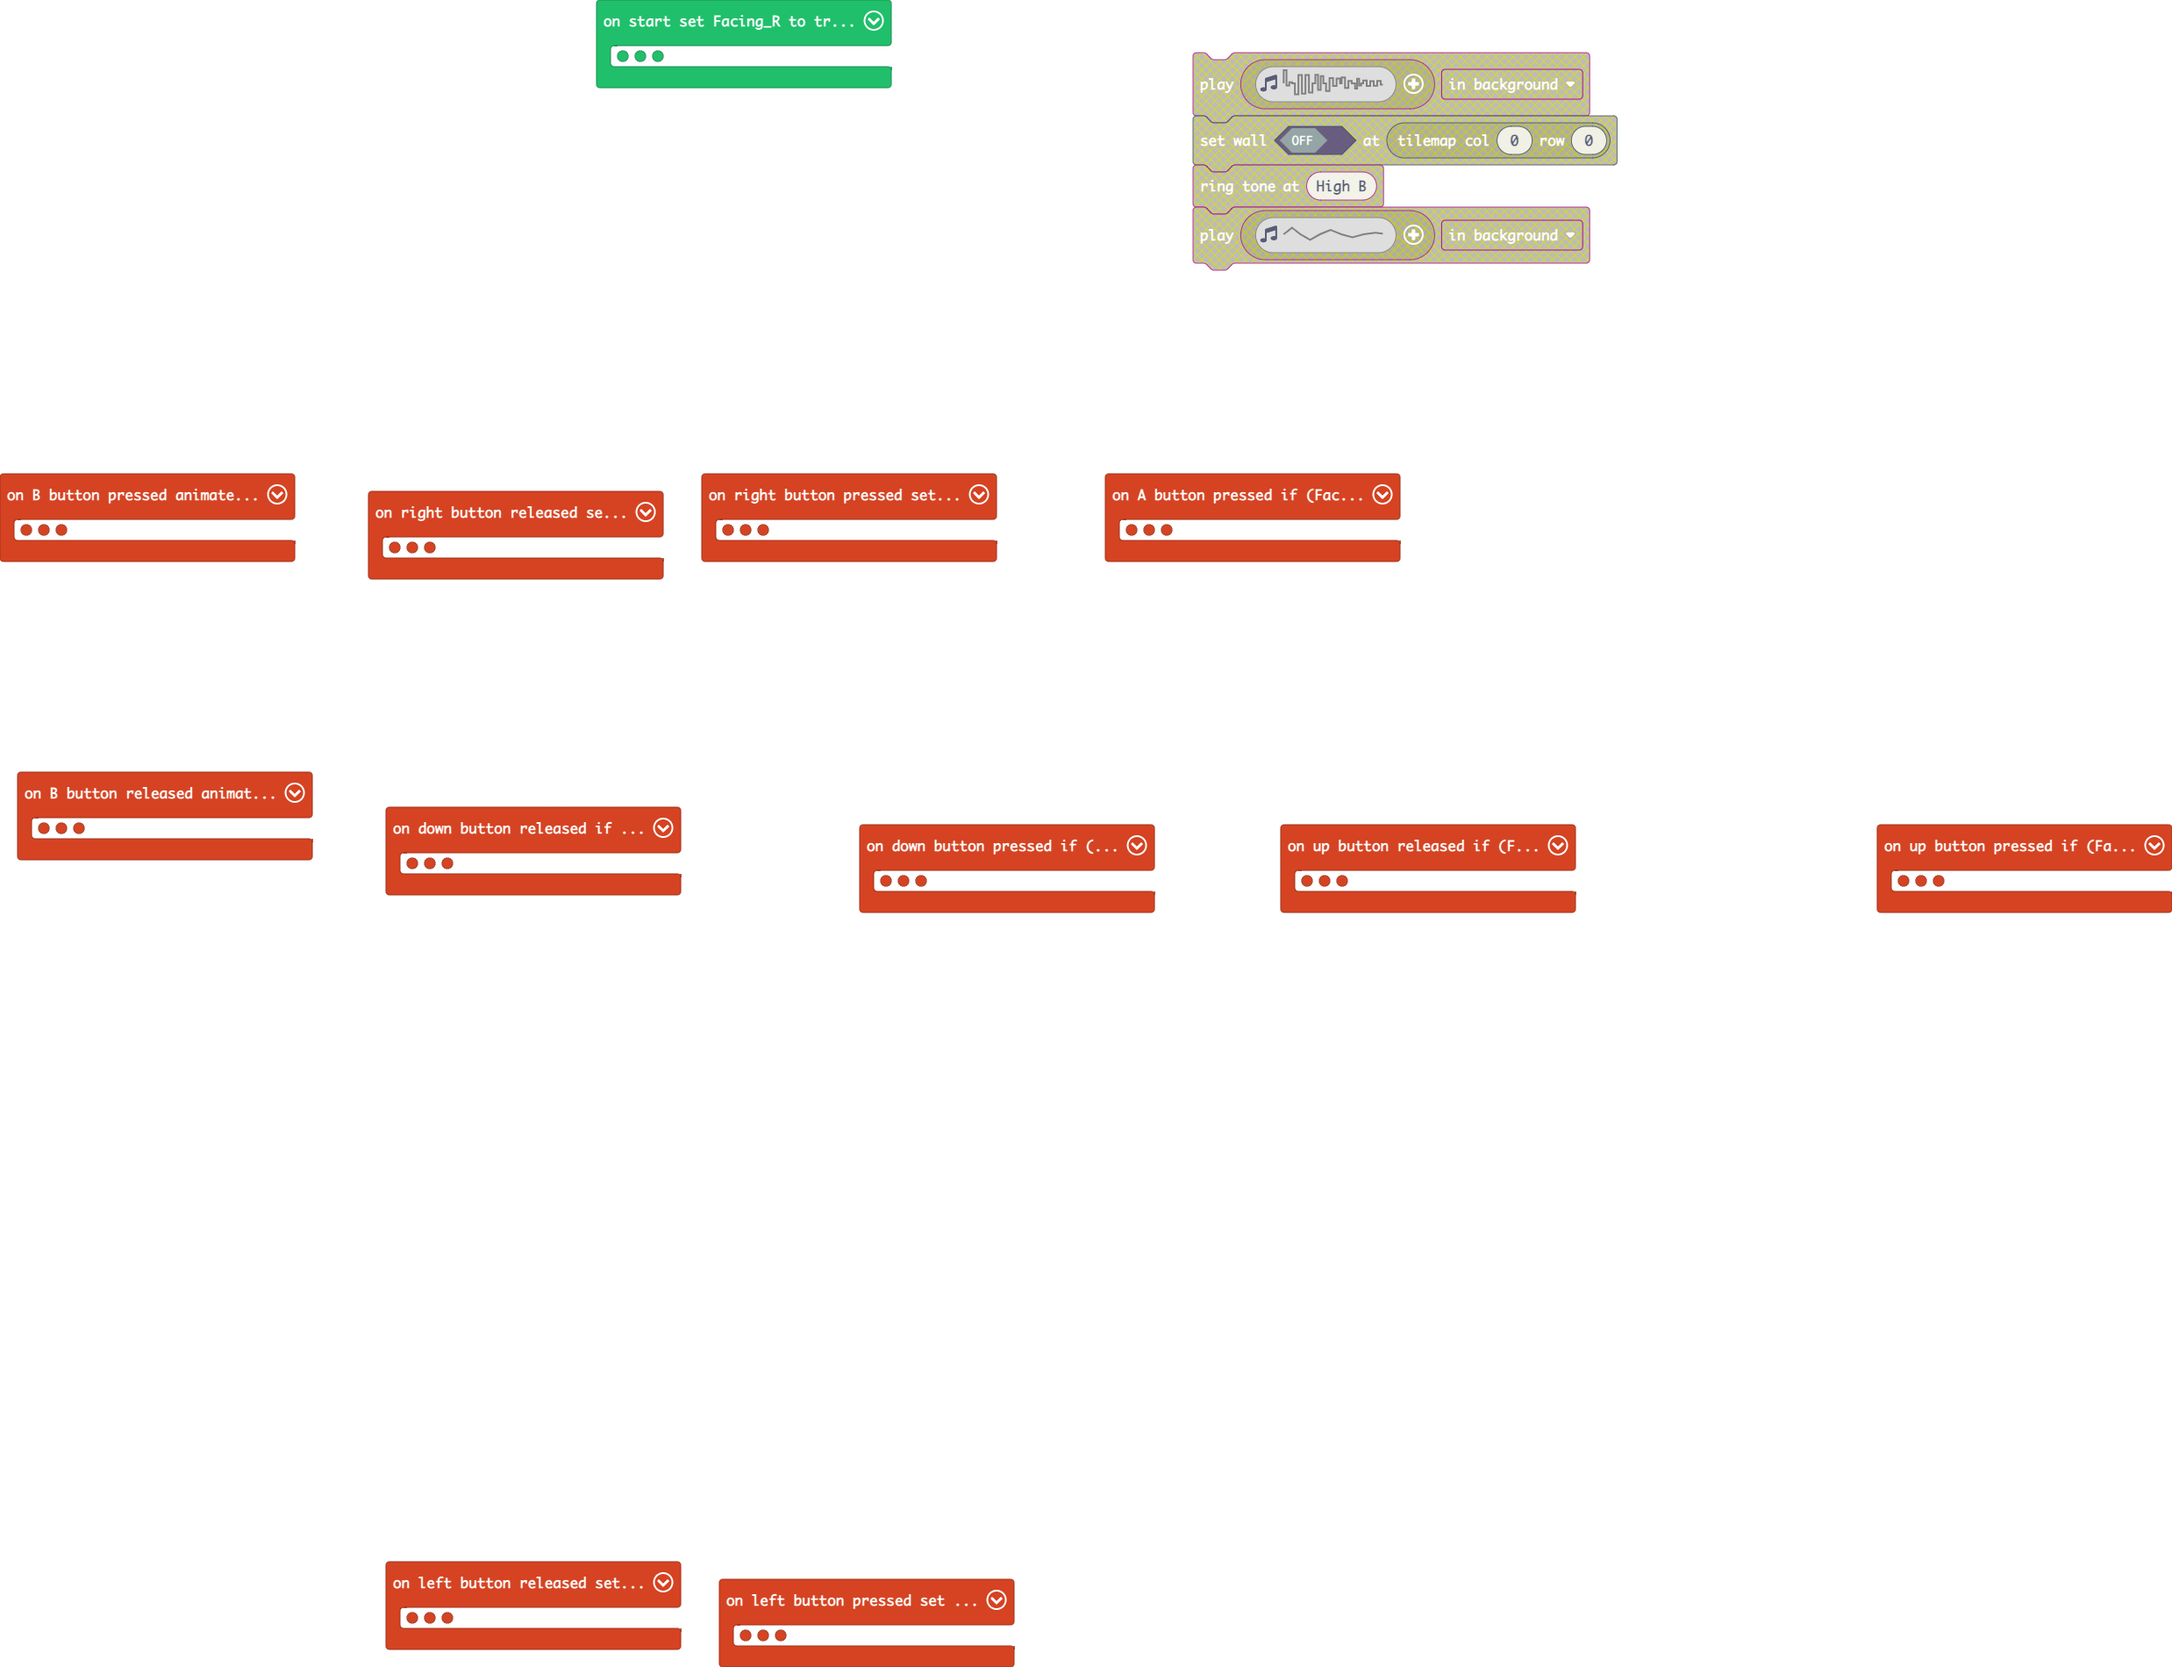
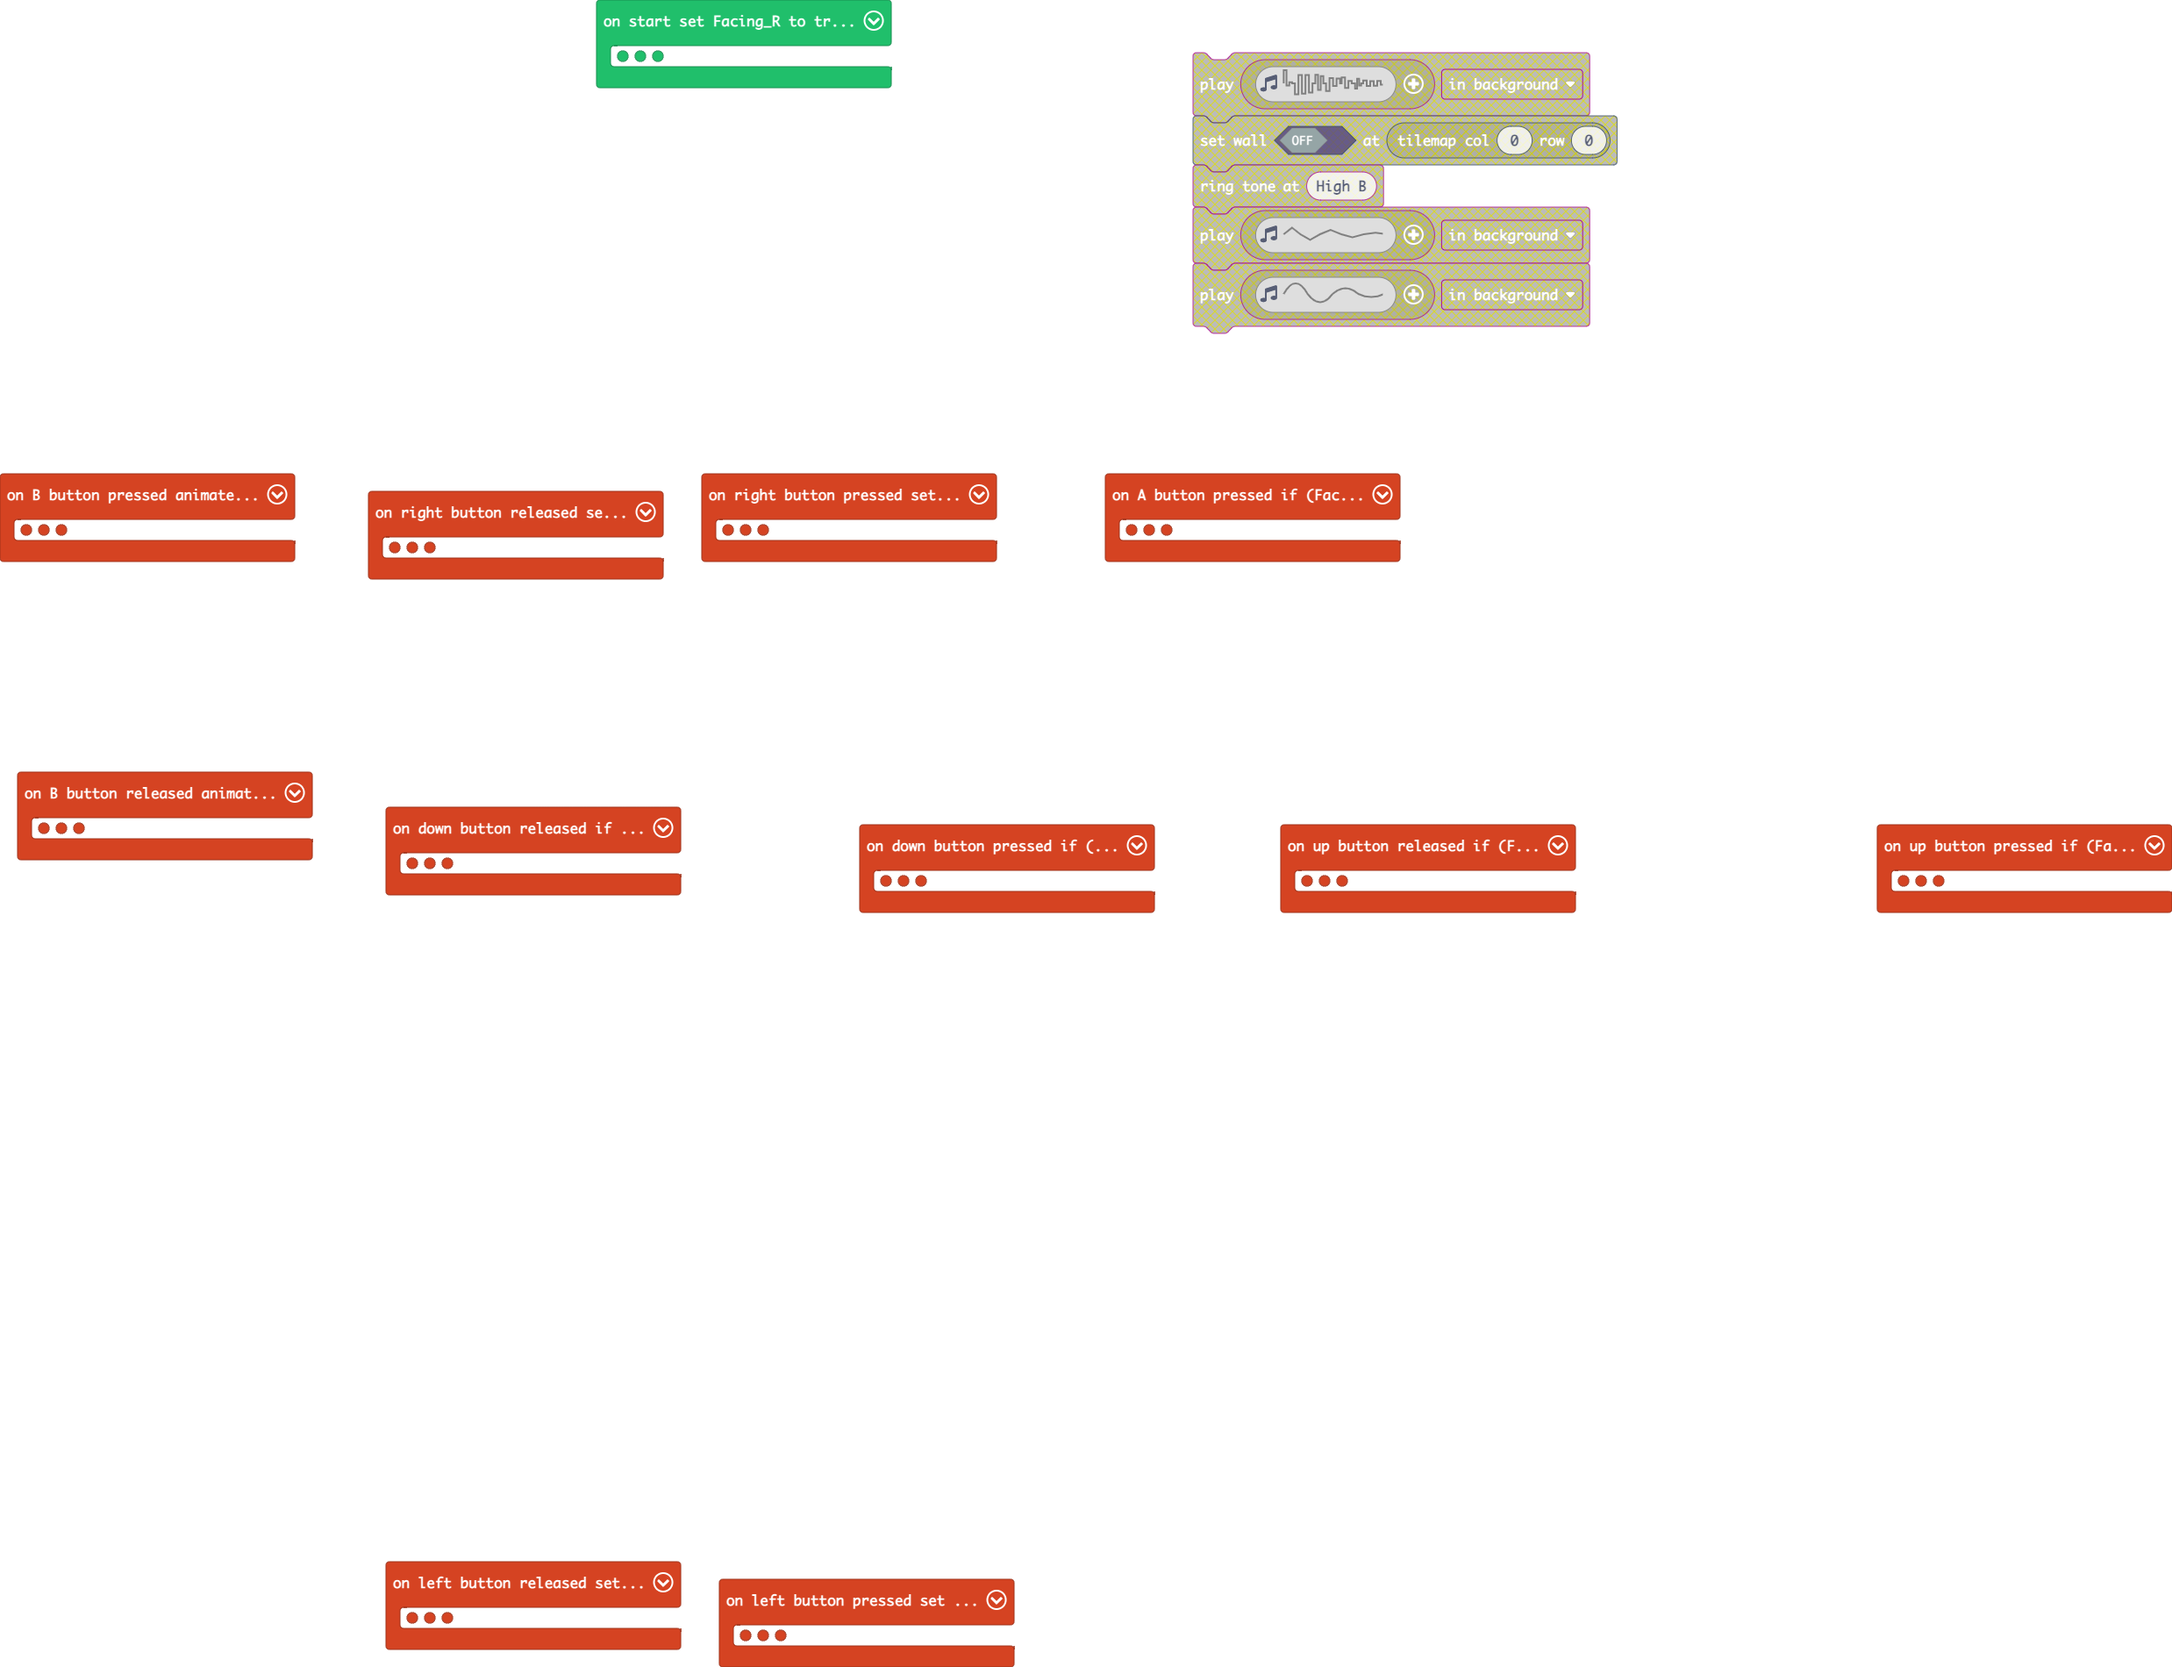
Update main.blocks, images.g.jres, images.g.ts

Changed region(s): [[0.5287, 0.1553, 0.7464, 0.2174]]

diff --git a/images.g.ts b/images.g.ts
@@ -98,69 +98,6 @@ f . f . f f e e e e e e f . . .
 . f . f f f e e e e e e f . . . 
 f . f . f f b e e e e b f . . . 
 `;
-            case "image3":
-            case "myImage":return img`
-....................e...........................................................................................................................................
-...................ee...........................................................................................................................................
-..................eeee..........................................................................................................................................
-.................eeeeee.........................................................................................................................................
-................eeeeeee.........................................................................................................................................
-................eeeeeeee........................................................................................................................................
-...............eeeeeeeeee.......................................................................................................................................
-..............eeeeeeeeeeee......................................................................................................................................
-.............eeeeeeeeeeeeee.....................................................................................................................................
-............eeeeeeeeeeeeeeee....................................................................................................................................
-...........eeeeeeeeeeeeeeeee....................................................................................................................................
-..........eeeeeeeeeeeeeeeeeee...................................................................................................................................
-..........eeeeeeeeeeeeeeeeeeee..................................................................................................................................
-.........eeeeeeeeeeeeeeeeeeeeee.................................................................................................................................
-........eeeeeeeeeeeeeeeeeeeeeeee................................................................................................................................
-.......eeeeeeeeeeeeeeeeeeeeeeeee................................................................................................................................
-......eeeeeeeeeeeeeeeeeeeeeeeeeee...............................................................................................................................
-.....eeeeeeeeeeeeeeeeeeeeeeeeeeeee..............................................................................................................................
-....eeeeeeeeeeeeeeeeeeeeeeeeeeeeeee.............................................................................................................................
-...eeeeeeeeeeeeeeeeeeeeeeeeeeeeeeeee............................................................................................................................
-...eeeeeeeeeeeeeeeeeeeeeeeeeeeeeeeeee...........................................................................................................................
-..eeeeeeeeeeeeeeeeeeeeeeeeeeeeeeeeeee...........................................................................................................................
-.eeeeeeeeeeeeeeeeeeeeeeeeeeeeeeeeeeeee..........................................................................................................................
-eeeeeeeeeeeeeeeeeeeeeeeeeeeeeeeeeeeeeee.........................................................................................................................
-eeeeeeeeeeeeeeeeeeeeeeeeeeeeeeeeeeeeeeee........................................................................................................................
-ee11111111111e11111111111e11111111111e1e........................................................................................................................
-e1e111111111e1e111111111e1e111111111e1ee........................................................................................................................
-e11e1111111e111e1111111e111e1111111e111e........................................................................................................................
-e111e11111e11111e11111e11111e11111e1111e........................................................................................................................
-e1111e111e1111111e111e1111111e111e11111e........................................................................................................................
-e11111e1e111111111e1e111111111e1e111111e........................................................................................................................
-e111111e11111111111e11111111111e1111111e........................................................................................................................
-e11111e1e111111111e1e111111111e1e111111e........................................................................................................................
-e1111e111e1111111e111e1111111e111e11111e........................................................................................................................
-e111e11111e11111e11111e11111e11111e1111e........................................................................................................................
-e11e1111111e111e1111111e111e1111111e111e........................................................................................................................
-e1e111111111e1e111111111e1e111111111e11e........................................................................................................................
-ee11111111111e11111111111e11111111111e1e........................................................................................................................
-e1e111111111e1e111111111e1e11111111111ee........................................................................................................................
-e11eeeeeeeee111e1111111e111e1eeeeeeee11e........................................................................................................................
-e111e999999e1111e11111e11111ee999999e11e........................................................................................................................
-e111e999999e11111e111e1111111e999999e11e........................................................................................................................
-e111e999999e111111e1e11111111e999999e11e........................................................................................................................
-e111e999999e1111111e111111111e999999e11e........................................................................................................................
-e111e999999e111111e1e11111111e999999e11e........................................................................................................................
-e111eeeeeeee11eeeeeeeeeeeee11eeeeeeee11e........................................................................................................................
-e11e11111e1111e11111111111e1e11111e1111e........................................................................................................................
-e1e1111111e111e11111111111ee1111111e111e........................................................................................................................
-ee111111111e1ee11111111111e111111111e11e........................................................................................................................
-ee1111111111e1e11111111111e1111111111e1e........................................................................................................................
-e1e11111111e11e11111111111e11111111111ee........................................................................................................................
-e11e111111e111e11111111111e111111111111e........................................................................................................................
-e111e1111e1111e11111111111e111111111111e........................................................................................................................
-e1111e11e11111e11111111111e111111111111e........................................................................................................................
-e11111ee111111e11111111111e111111111111e........................................................................................................................
-e11111e1e11111e11111111111e111111111111e........................................................................................................................
-e1111e111e1111e11111111111e111111111111e........................................................................................................................
-e111e11111e111e11111111111e111111111111e........................................................................................................................
-e11e1111111e11eeeeeeeeeeeee111111111111e........................................................................................................................
-eeeeeeeeeeeeeeeeeeeeeeeeeeeeeeeeeeeeeeee........................................................................................................................
-`;
             case "image7":
             case "Heart":return img`
 . 3 3 . 2 2 f . 
@@ -200,6 +137,69 @@ e c e c 1 e b b
 e c e c e e . b 
 e c e e e e b b 
 . e e e e . . . 
+`;
+            case "image3":
+            case "Background":return img`
[60 lines of base64/hex data omitted]
 `;
         }
         return null;
